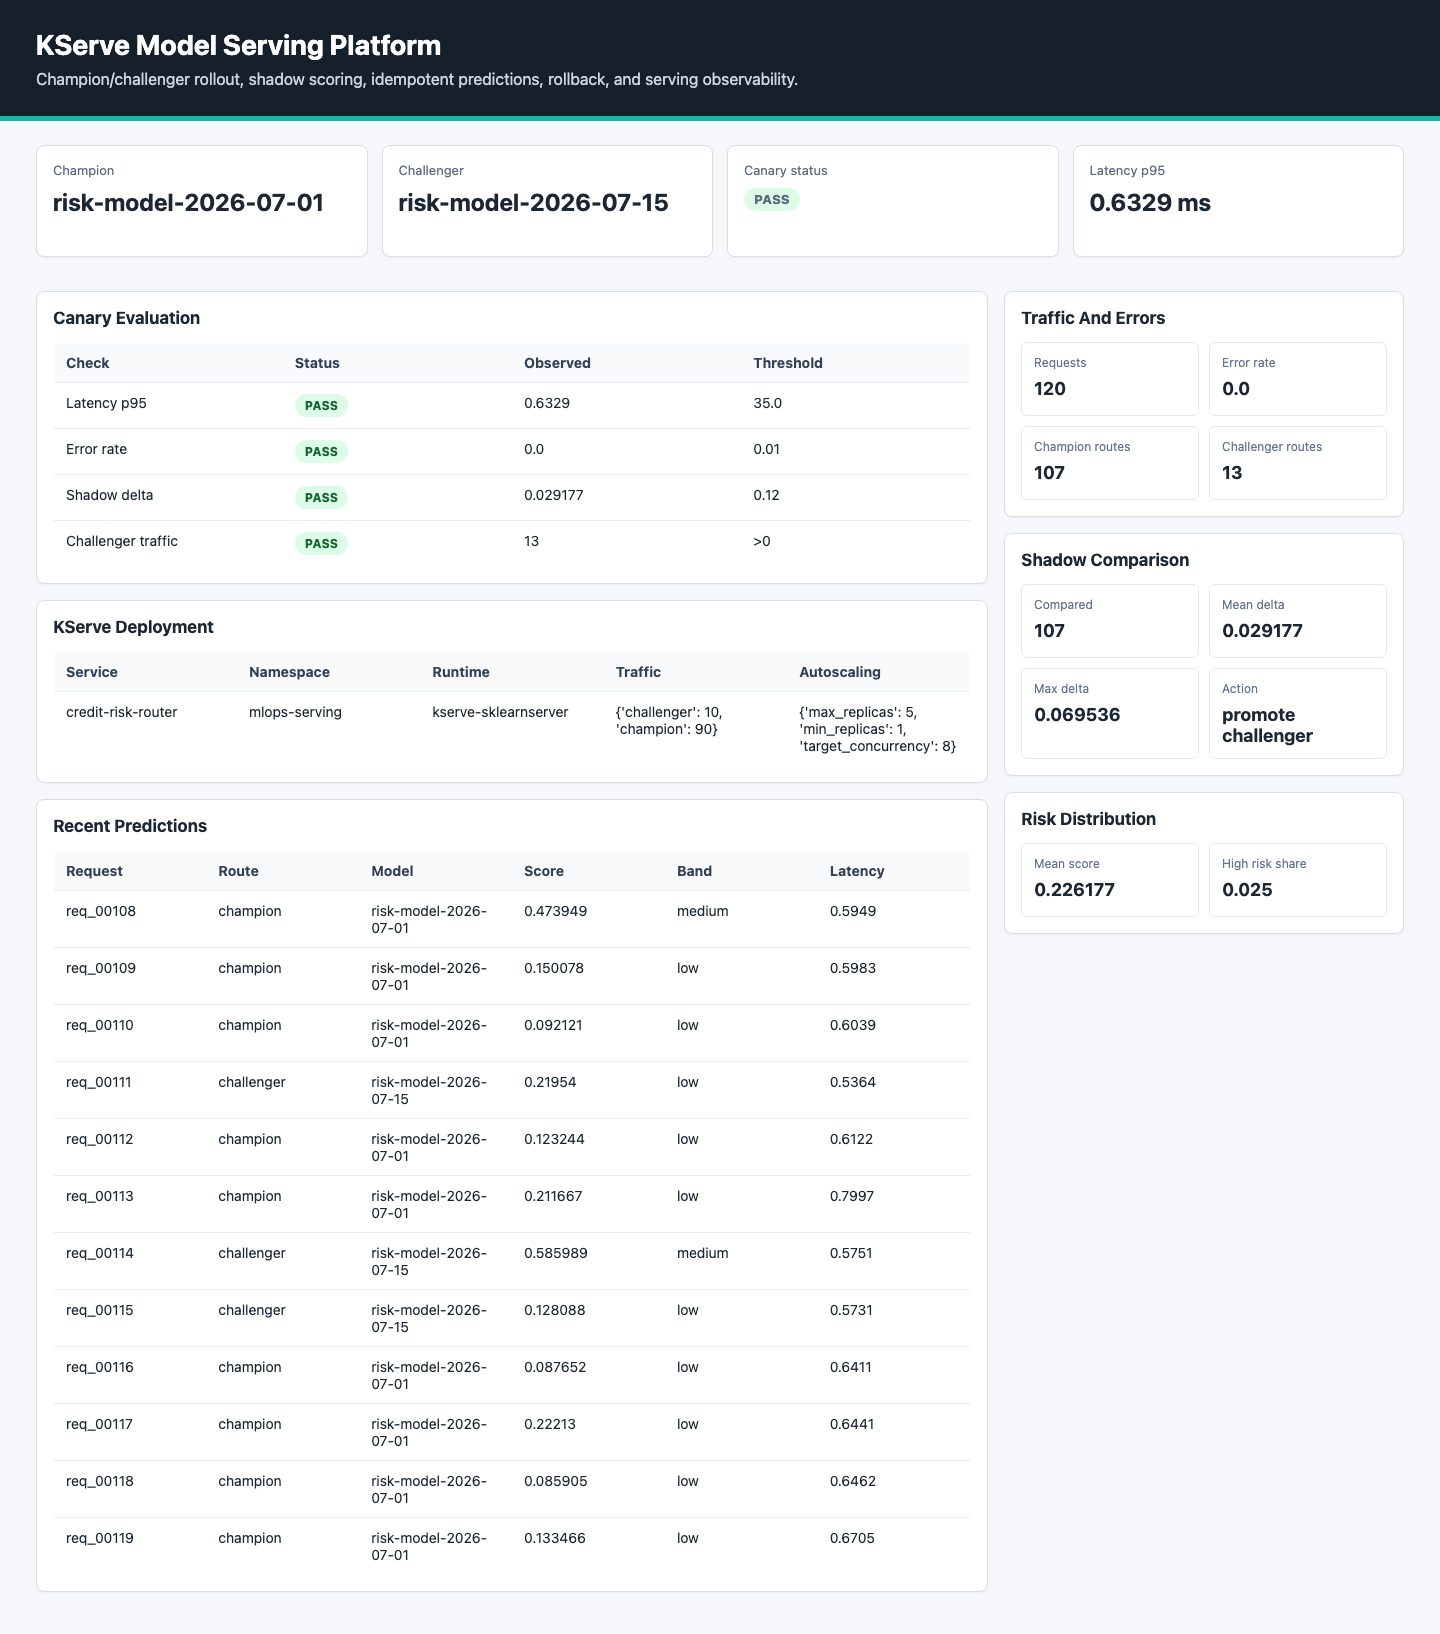
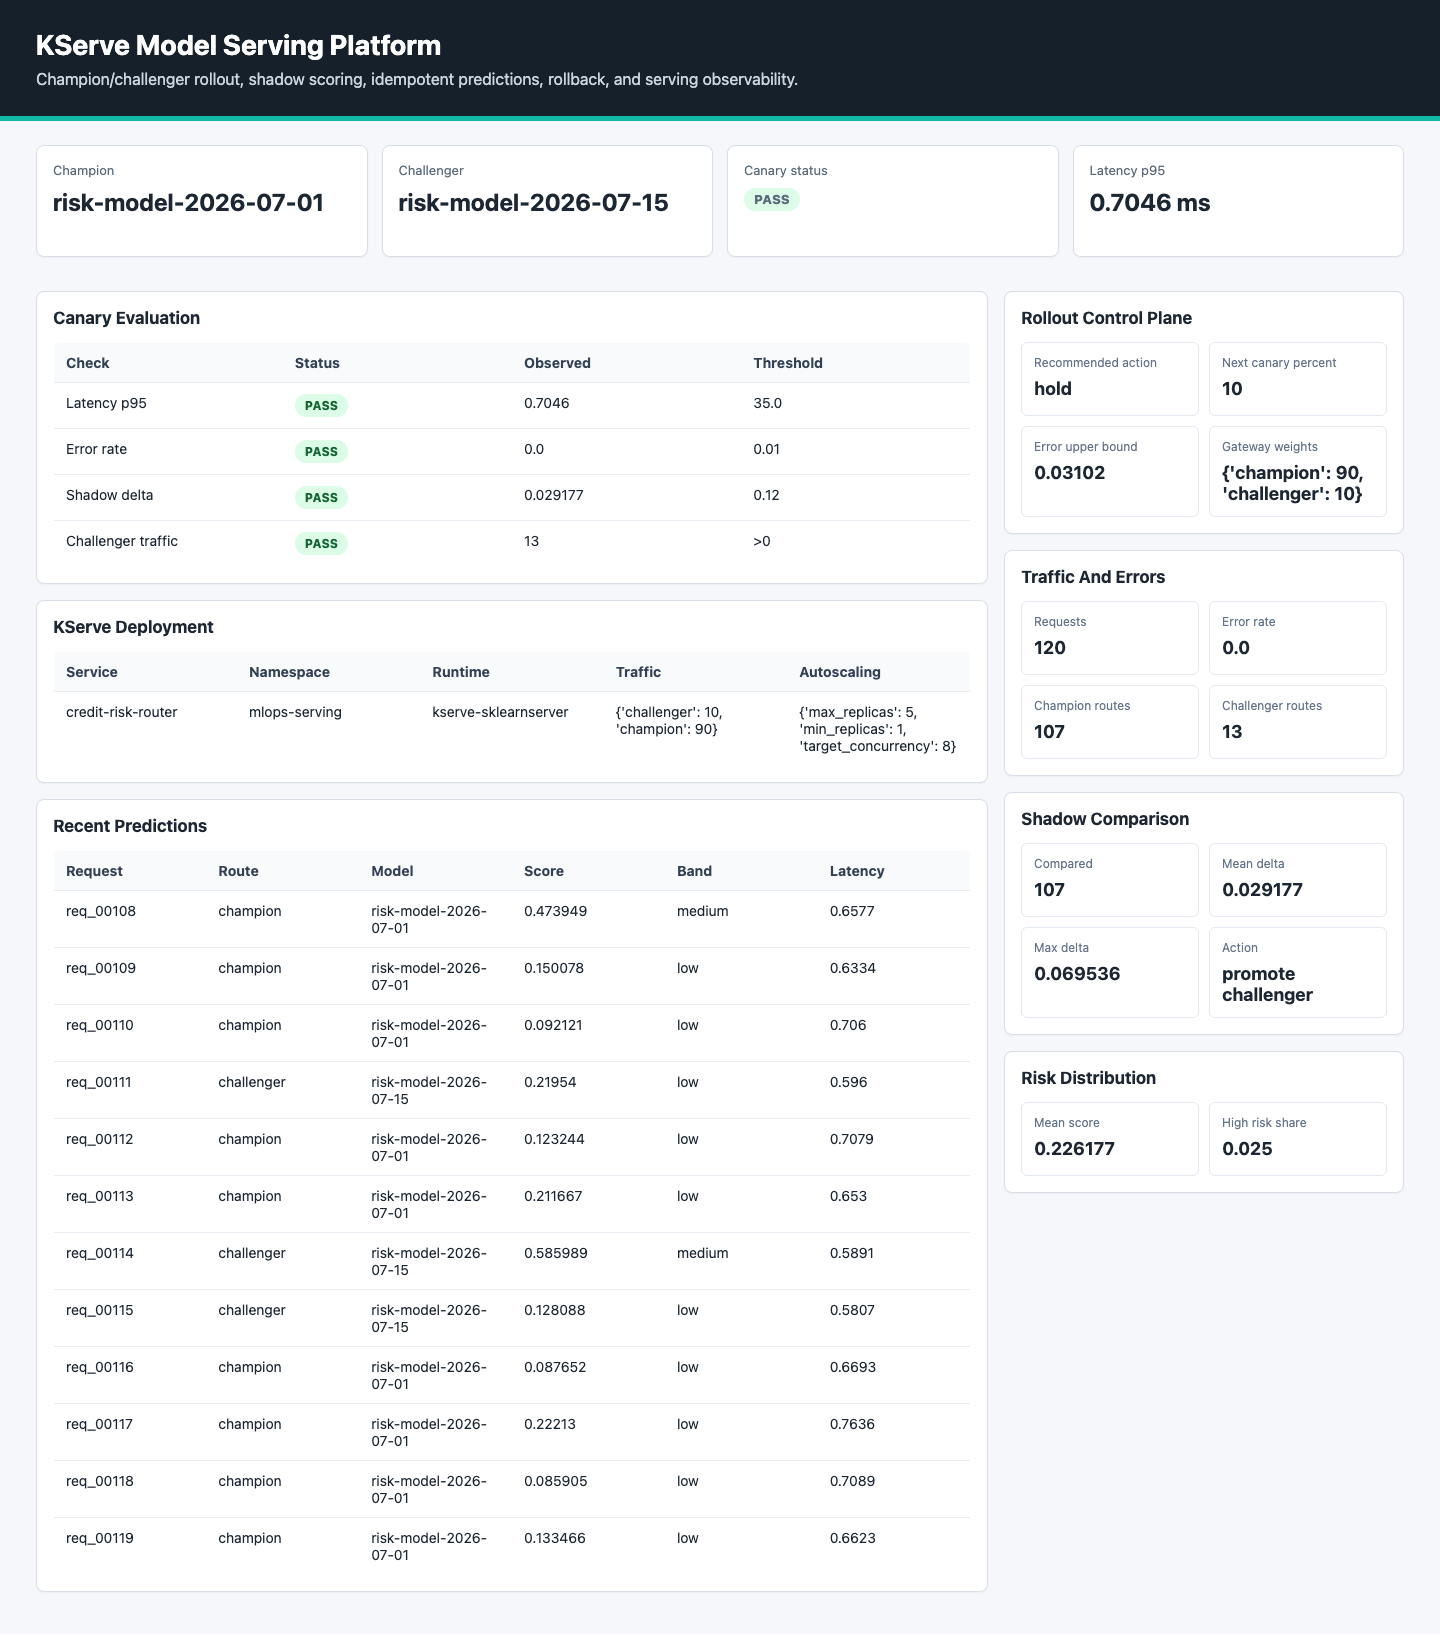
Add rollout control plane and event scaling

diff --git a/src/kserve_model_platform/rollout_control.py b/src/kserve_model_platform/rollout_control.py
@@ -1,0 +1,88 @@
+from __future__ import annotations
+
+import math
+from pathlib import Path
+
+from .io import read_json, write_json
+
+
+CANARY_STEPS = [1, 5, 10, 25, 50, 100]
+
+
+def wilson_error_upper_bound(failures: int, total: int, *, z: float = 1.96) -> float:
+    if total <= 0:
+        return 1.0
+    p_hat = failures / total
+    denominator = 1 + z**2 / total
+    centre = p_hat + z**2 / (2 * total)
+    margin = z * math.sqrt((p_hat * (1 - p_hat) + z**2 / (4 * total)) / total)
+    return round((centre + margin) / denominator, 6)
+
+
+def next_canary_percent(current_percent: int, *, passed: bool) -> int:
+    if not passed:
+        return current_percent
+    for step in CANARY_STEPS:
+        if step > current_percent:
+            return step
+    return 100
+
+
+def evaluate_rollout(report: dict, current_percent: int) -> dict:
+    total = int(report.get("request_count", 0))
+    failures = int(report.get("error_count", 0))
+    latency_p95 = float(report.get("latency_ms", {}).get("p95", 999.0))
+    shadow_delta = float(report.get("shadow", {}).get("mean_abs_delta", 1.0))
+    challenger_count = int(report.get("route_counts", {}).get("challenger", 0))
+    error_upper = wilson_error_upper_bound(failures, total)
+    checks = [
+        {"name": "minimum_canary_sample", "passed": challenger_count >= max(5, current_percent), "observed": challenger_count},
+        {"name": "wilson_error_upper_bound", "passed": error_upper <= 0.02, "observed": error_upper, "threshold": 0.02},
+        {"name": "latency_p95", "passed": latency_p95 <= 35.0, "observed": latency_p95, "threshold": 35.0},
+        {"name": "shadow_delta", "passed": shadow_delta <= 0.12, "observed": shadow_delta, "threshold": 0.12},
+    ]
+    passed = all(check["passed"] for check in checks)
+    if error_upper > 0.05 or latency_p95 > 75.0:
+        action = "rollback"
+    elif current_percent >= 50 and passed:
+        action = "promote"
+    elif passed:
+        action = "advance"
+    else:
+        action = "hold"
+    return {
+        "action": action,
+        "checks": checks,
+        "current_percent": current_percent,
+        "next_percent": next_canary_percent(current_percent, passed=passed),
+        "error_upper_bound": error_upper,
+    }
+
+
+def build_rollout_plan(root: str | Path) -> dict:
+    root = Path(root)
+    report = read_json(root / "reports" / "serving_observability.json")
+    state = read_json(root / "deployments" / "kserve_state.json")
+    current_percent = int(state.get("traffic", {}).get("challenger", 0))
+    evaluation = evaluate_rollout(report, current_percent)
+    next_percent = evaluation["next_percent"]
+    plan = {
+        "service": state.get("service_name", "credit-risk-router"),
+        "current_percent": current_percent,
+        "recommended_action": evaluation["action"],
+        "next_percent": next_percent,
+        "kserve_patch": {
+            "spec": {
+                "predictor": {
+                    "canaryTrafficPercent": next_percent if evaluation["action"] == "advance" else current_percent
+                }
+            }
+        },
+        "gateway_weights": {
+            "champion": max(0, 100 - next_percent),
+            "challenger": next_percent,
+        },
+        "analysis": evaluation,
+    }
+    write_json(root / "reports" / "rollout_control_plan.json", plan)
+    return plan

diff --git a/tests/test_kserve_model_platform.py b/tests/test_kserve_model_platform.py
@@ -5,10 +5,11 @@ import unittest
 from pathlib import Path
 
 from kserve_model_platform.cli import demo, monitor, promote, rollback, simulate
-from kserve_model_platform.io import read_json, read_jsonl
+from kserve_model_platform.io import read_json, read_jsonl, write_json
 from kserve_model_platform.models import generate_requests, validate_payload
 from kserve_model_platform.monitoring import evaluate_canary
 from kserve_model_platform.registry import aliases
+from kserve_model_platform.rollout_control import build_rollout_plan, evaluate_rollout, wilson_error_upper_bound
 from kserve_model_platform.serving import deploy, predict, route_alias
 
 
@@ -55,6 +56,39 @@ class KServeModelServingPlatformTest(unittest.TestCase):
             self.assertIn(expected, admission)
         for expected in ["HTTPRoute", "credit-risk-weighted-route", "weight: 95", "weight: 5", "credit-risk-emergency-rollback-route"]:
             self.assertIn(expected, traffic)
+
+    def test_event_driven_autoscaling_assets_exist(self) -> None:
+        repo = Path(__file__).resolve().parents[1]
+        autoscaling = (repo / "kubernetes" / "event-driven-autoscaling.yaml").read_text(encoding="utf-8")
+
+        for expected in ["ScaledObject", "prometheus", "fallback", "horizontalPodAutoscalerConfig", "activationThreshold"]:
+            self.assertIn(expected, autoscaling)
+
+    def test_rollout_control_uses_confidence_bound_and_next_step(self) -> None:
+        with tempfile.TemporaryDirectory() as tmp:
+            root = Path(tmp)
+            write_json(
+                root / "reports" / "serving_observability.json",
+                {
+                    "request_count": 500,
+                    "error_count": 0,
+                    "latency_ms": {"p95": 12.0},
+                    "shadow": {"mean_abs_delta": 0.03},
+                    "route_counts": {"champion": 450, "challenger": 50},
+                },
+            )
+            write_json(root / "deployments" / "kserve_state.json", {"service_name": "credit-risk-router", "traffic": {"challenger": 10}})
+
+            plan = build_rollout_plan(root)
+            failed = evaluate_rollout(
+                {"request_count": 20, "error_count": 4, "latency_ms": {"p95": 80.0}, "shadow": {"mean_abs_delta": 0.2}, "route_counts": {"challenger": 2}},
+                10,
+            )
+
+            self.assertLess(wilson_error_upper_bound(0, 500), 0.02)
+            self.assertEqual(plan["recommended_action"], "advance")
+            self.assertEqual(plan["next_percent"], 25)
+            self.assertEqual(failed["action"], "rollback")
 
     def test_demo_writes_dashboard_and_passes_canary(self) -> None:
         with tempfile.TemporaryDirectory() as tmp:

diff --git a/src/kserve_model_platform/dashboard.py b/src/kserve_model_platform/dashboard.py
@@ -36,7 +36,9 @@ def rows(items: list[dict], columns: list[str]) -> str:
     return "\n".join(output)
 
 
-def render_dashboard(output_path: str | Path, *, deployment: dict, report: dict, decision: dict, aliases: dict) -> Path:
+def render_dashboard(output_path: str | Path, *, deployment: dict, report: dict, decision: dict, aliases: dict, rollout_plan: dict | None = None) -> Path:
+    rollout_plan = rollout_plan or {}
+    rollout_analysis = rollout_plan.get("analysis", {})
     check_rows = [
         {
             "check": LABELS.get(check["name"], check["name"]),
@@ -126,6 +128,15 @@ def render_dashboard(output_path: str | Path, *, deployment: dict, report: dict,
             </div>
           </div>
           <div>
+            <div class="panel">
+              <h2>Rollout Control Plane</h2>
+              <div class="summary">
+                <div><span>Recommended action</span><strong>{esc(rollout_plan.get('recommended_action', 'not planned'))}</strong></div>
+                <div><span>Next canary percent</span><strong>{esc(rollout_plan.get('next_percent', 'n/a'))}</strong></div>
+                <div><span>Error upper bound</span><strong>{esc(rollout_analysis.get('error_upper_bound', 'n/a'))}</strong></div>
+                <div><span>Gateway weights</span><strong>{esc(rollout_plan.get('gateway_weights', {}))}</strong></div>
+              </div>
+            </div>
             <div class="panel">
               <h2>Traffic And Errors</h2>
               <div class="summary">

diff --git a/src/kserve_model_platform/cli.py b/src/kserve_model_platform/cli.py
@@ -10,6 +10,7 @@ from .models import generate_requests
 from .monitoring import build_report, evaluate_canary
 from .registry import aliases as registry_aliases
 from .registry import promote_challenger, rollback as rollback_registry, seed_registry
+from .rollout_control import build_rollout_plan
 from .serving import deploy as deploy_kserve
 from .serving import health, predict
 
@@ -66,14 +67,16 @@ def monitor(output: str | Path) -> dict:
     decision = evaluate_canary(report)
     write_json(root / "reports" / "canary_decision.json", decision)
     deployment = read_json(root / "deployments" / "kserve_state.json")
+    rollout_plan = build_rollout_plan(root)
     dashboard = render_dashboard(
         root / "reports" / "kserve_serving_dashboard.html",
         deployment=deployment,
         report=report,
         decision=decision,
         aliases=registry_aliases(root),
+        rollout_plan=rollout_plan,
     )
-    return {"report": report, "decision": decision, "dashboard": str(dashboard)}
+    return {"report": report, "decision": decision, "rollout_plan": rollout_plan, "dashboard": str(dashboard)}
 
 
 def promote(output: str | Path) -> dict:
@@ -106,6 +109,7 @@ def demo(output: str | Path) -> dict:
         "deployment": deployment,
         "simulation": simulation,
         "canary": monitoring["decision"],
+        "rollout_plan": monitoring["rollout_plan"],
         "dashboard": monitoring["dashboard"],
         "idempotent_replay": idempotent.get("idempotent_replay", False),
     }
@@ -114,7 +118,7 @@ def demo(output: str | Path) -> dict:
 def main(argv: list[str] | None = None) -> int:
     parser = argparse.ArgumentParser(description="KServe model serving platform")
     sub = parser.add_subparsers(dest="command", required=True)
-    for command in ["demo", "deploy", "predict", "simulate", "monitor", "promote", "rollback", "health"]:
+    for command in ["demo", "deploy", "predict", "simulate", "monitor", "promote", "rollback", "health", "plan-rollout"]:
         cmd = sub.add_parser(command)
         cmd.add_argument("--output", default=".local")
         if command in {"deploy", "simulate"}:
@@ -136,4 +140,6 @@ def main(argv: list[str] | None = None) -> int:
         print(json.dumps(rollback(args.output), indent=2, sort_keys=True))
     elif args.command == "health":
         print(json.dumps(health(args.output), indent=2, sort_keys=True))
+    elif args.command == "plan-rollout":
+        print(json.dumps(build_rollout_plan(args.output), indent=2, sort_keys=True))
     return 0

diff --git a/docs/control-plane-depth.md b/docs/control-plane-depth.md
@@ -1,0 +1,21 @@
+# Advanced Rollout Control Plane
+
+This repo now includes a rollout planner in `src/kserve_model_platform/rollout_control.py`.
+
+## Operator Workflow
+
+- Run `make demo` to deploy, simulate traffic, and collect canary metrics.
+- Run `make plan-rollout` to generate `reports/rollout_control_plan.json`.
+- Inspect the recommended action: `advance`, `hold`, `promote`, or `rollback`.
+
+## What The Planner Uses
+
+- KServe champion/challenger traffic split.
+- P95 latency and shadow prediction delta.
+- Wilson upper confidence bound for observed error rate.
+- Minimum challenger sample requirements.
+- KServe patch shape and Gateway API weights for the next step.
+
+## Production Signal
+
+The planner avoids promoting on a deceptively clean but tiny sample. It requires enough challenger traffic and uses a confidence bound before recommending the next canary percentage.

diff --git a/README.md b/README.md
@@ -77,6 +77,8 @@ For the latest progressive rollout orchestration pass, see [advanced orchestrati
 
 For the Kubernetes/Airflow robustness layer, see [Kubernetes and Airflow robustness](docs/kubernetes-airflow-robustness.md).
 
+For the operator-facing rollout planner, see [advanced rollout control plane](docs/control-plane-depth.md).
+
 ## Canary Gates
 
 The challenger is recommended for promotion only when: